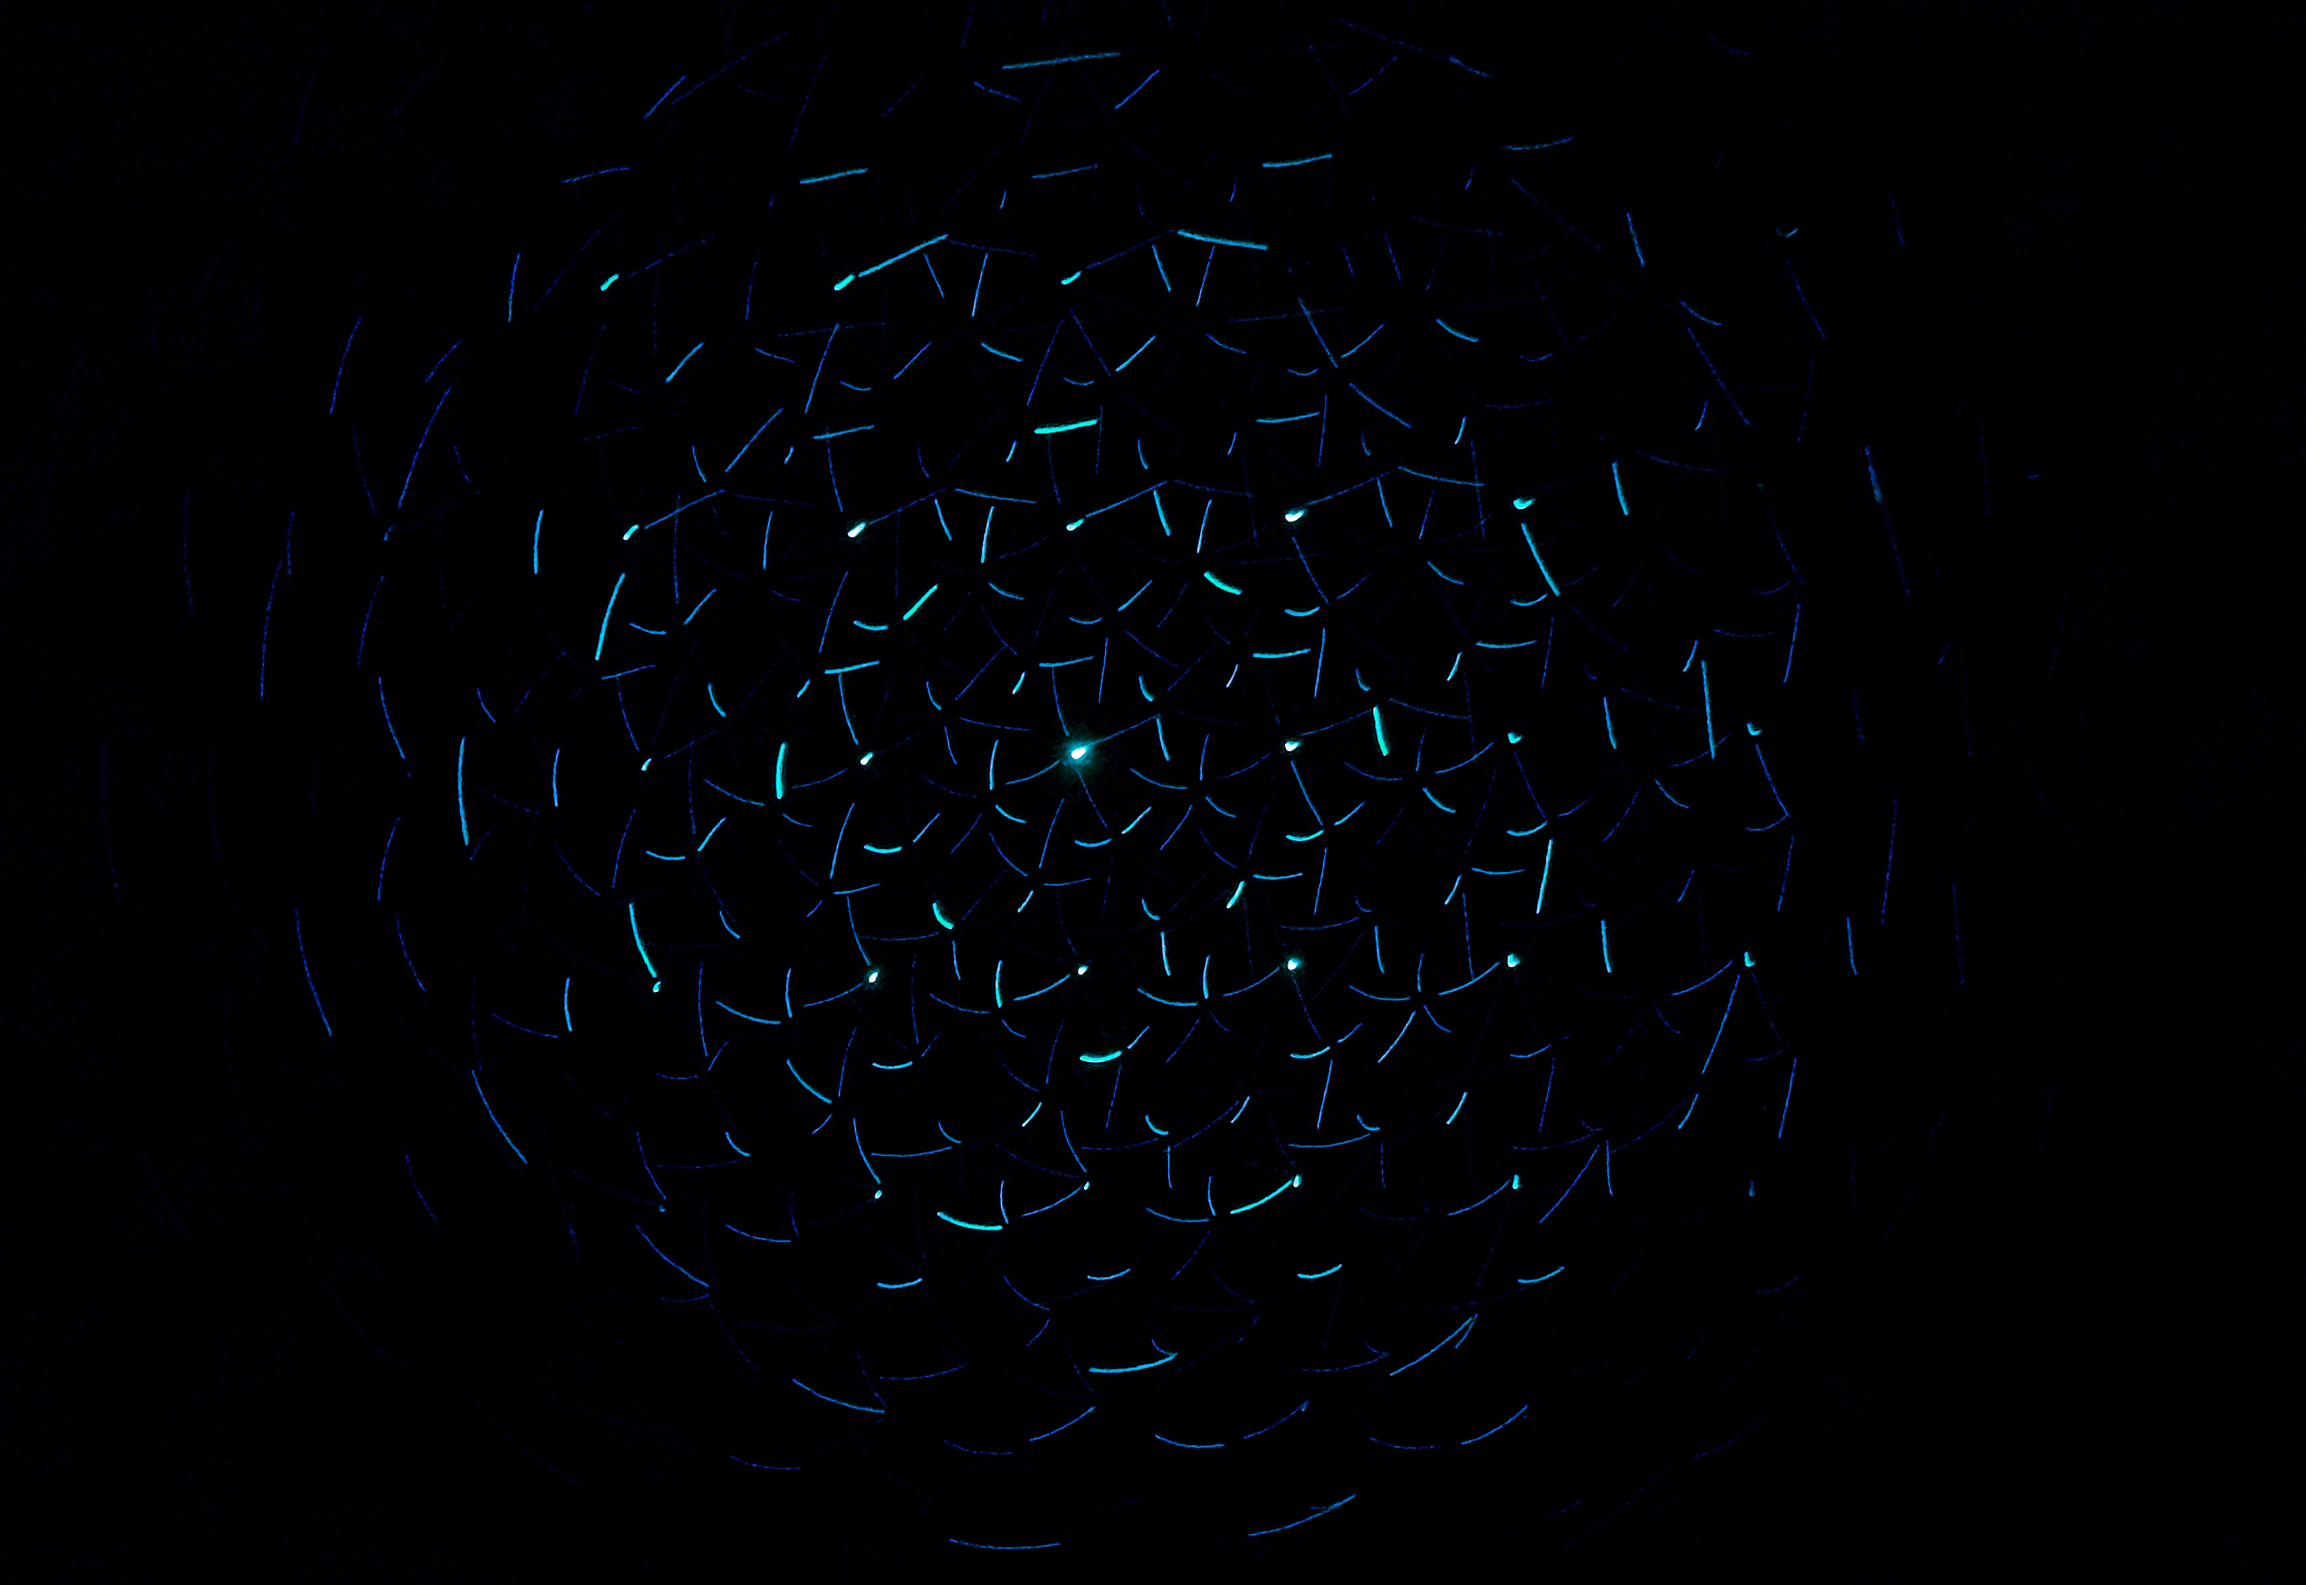
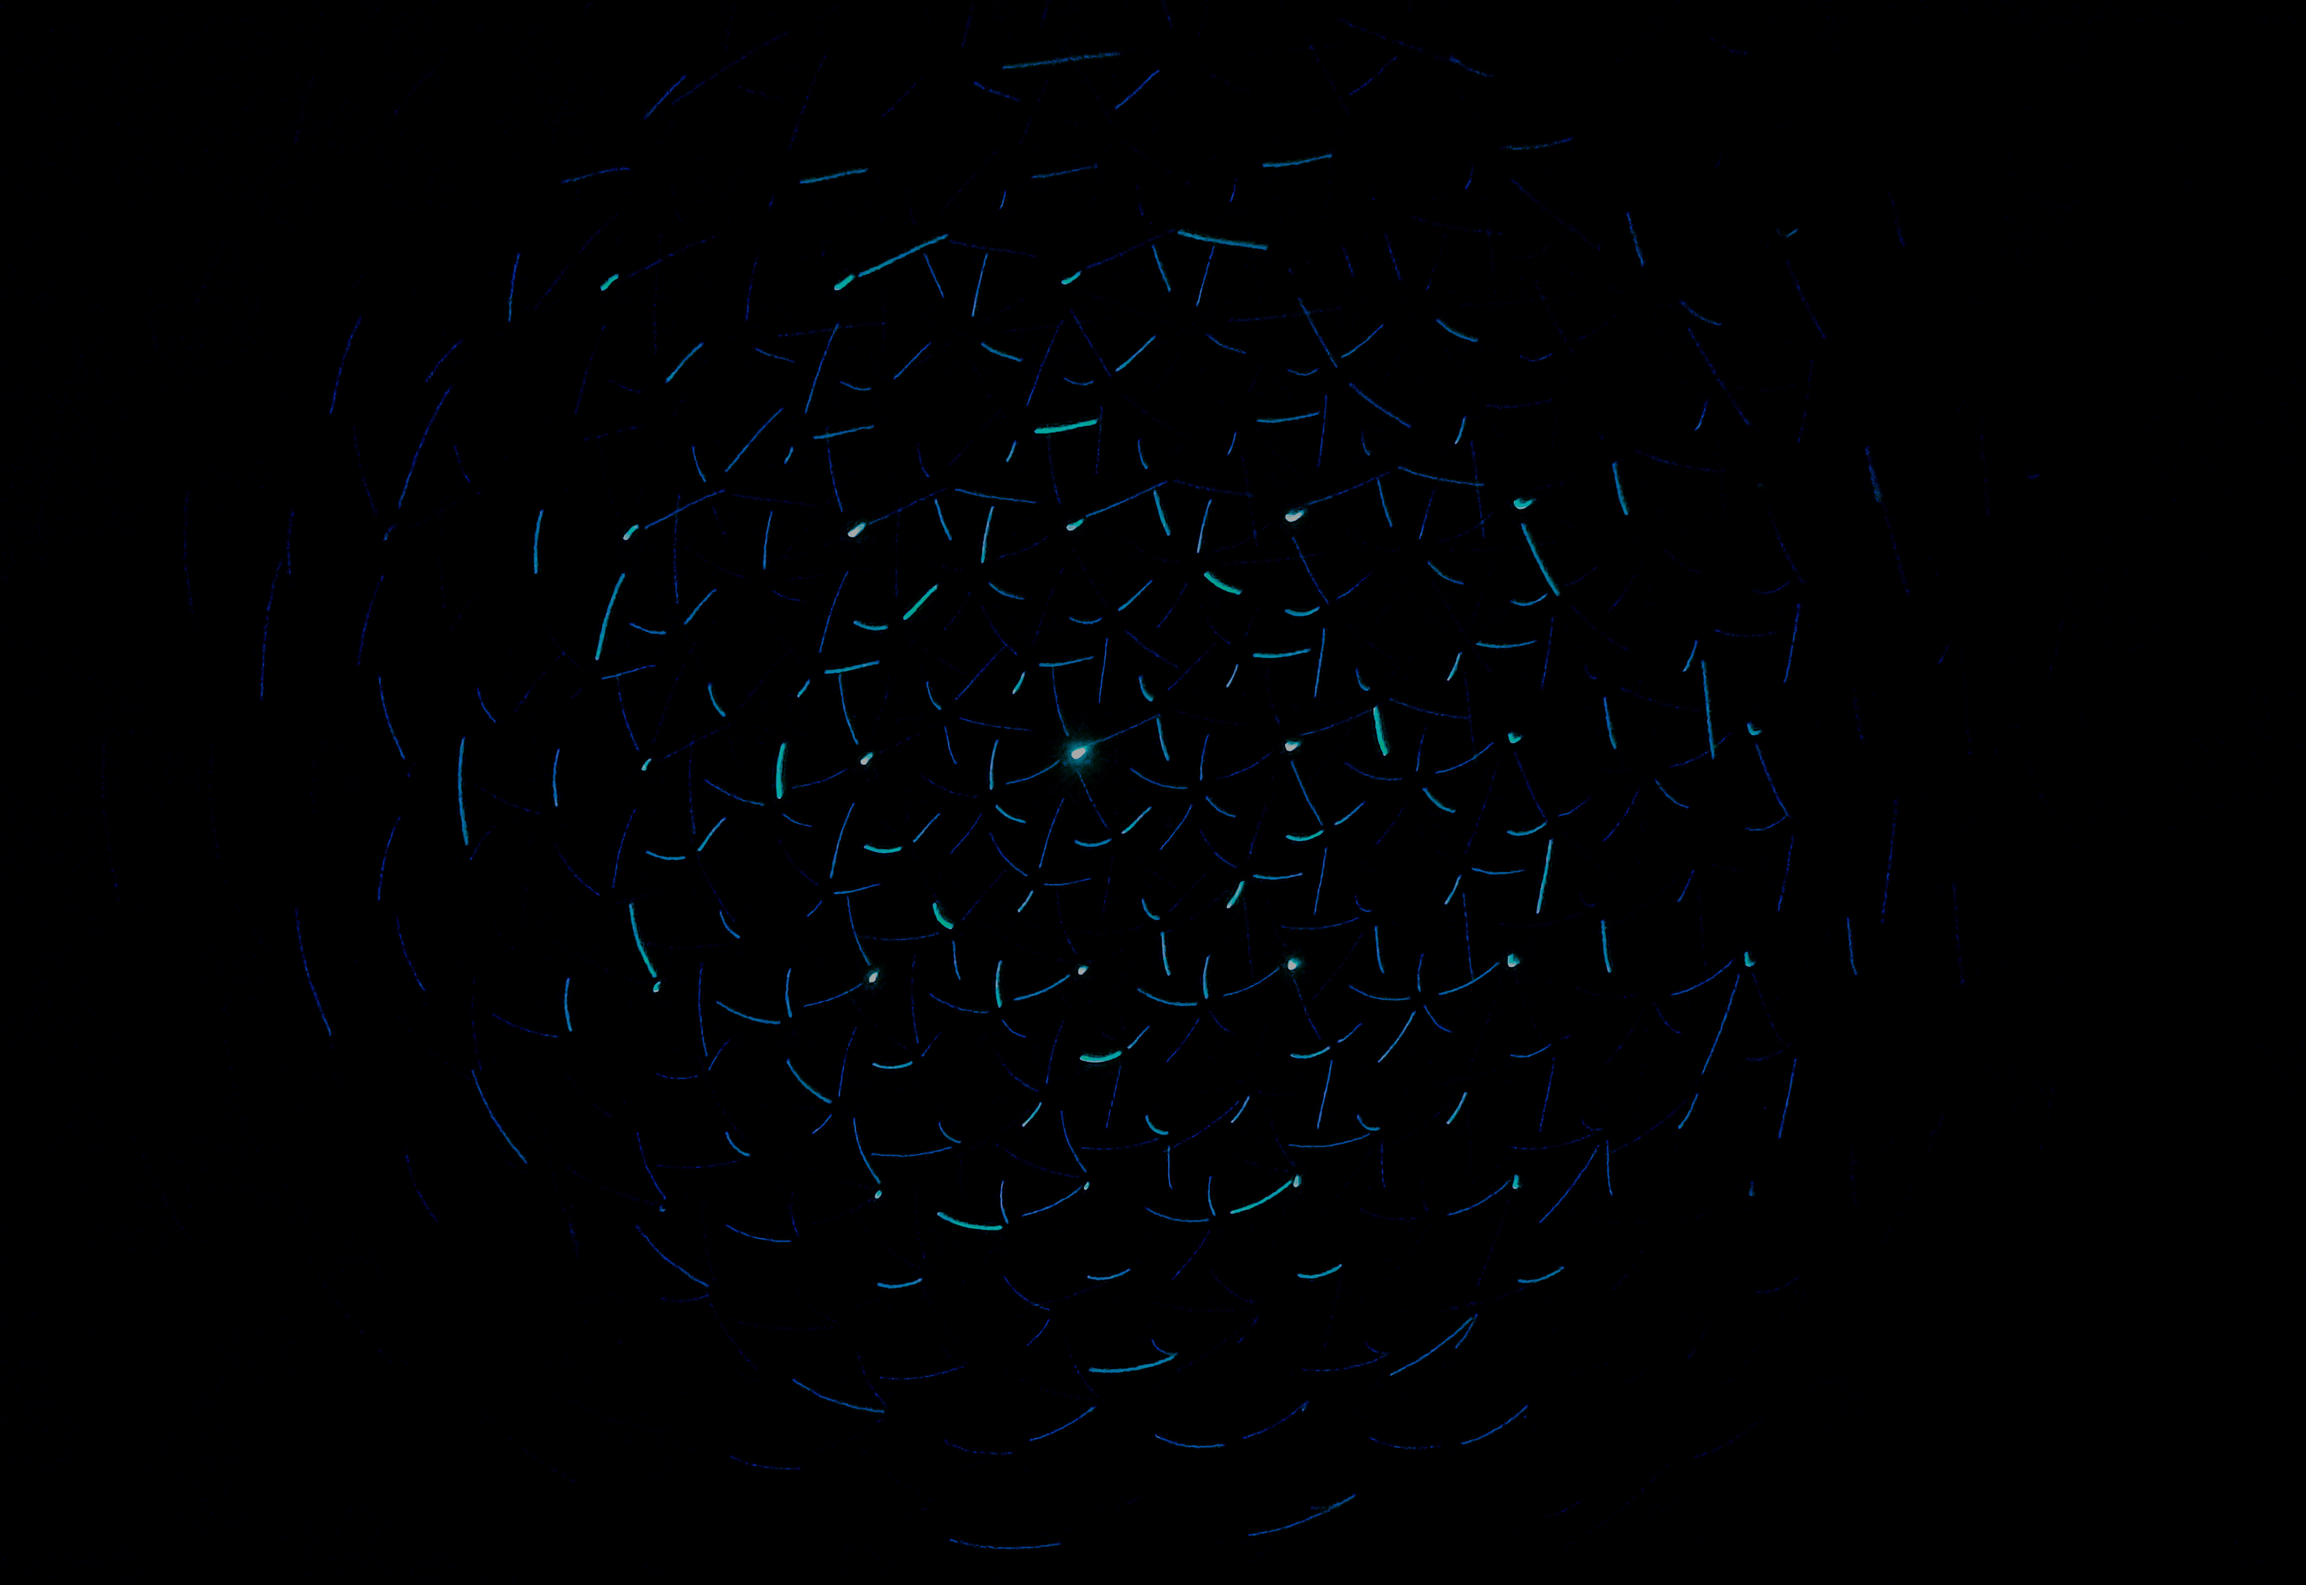
fix background

diff --git a/assets/css/main.css b/assets/css/main.css
@@ -1158,7 +1158,7 @@ input, select, textarea {
 			-webkit-transition: -webkit-transform 0.325s ease-in-out, -webkit-filter 0.325s ease-in-out;
 			-ms-transition: -ms-transform 0.325s ease-in-out, -ms-filter 0.325s ease-in-out;
 			transition: transform 0.325s ease-in-out, filter 0.325s ease-in-out;
-			background-image: url("../../images/bg1.jpg");
+			background-image: url("../../images/bg7.jpg");
 			background-position: center;
 			background-size: cover;
 			background-repeat: no-repeat;
